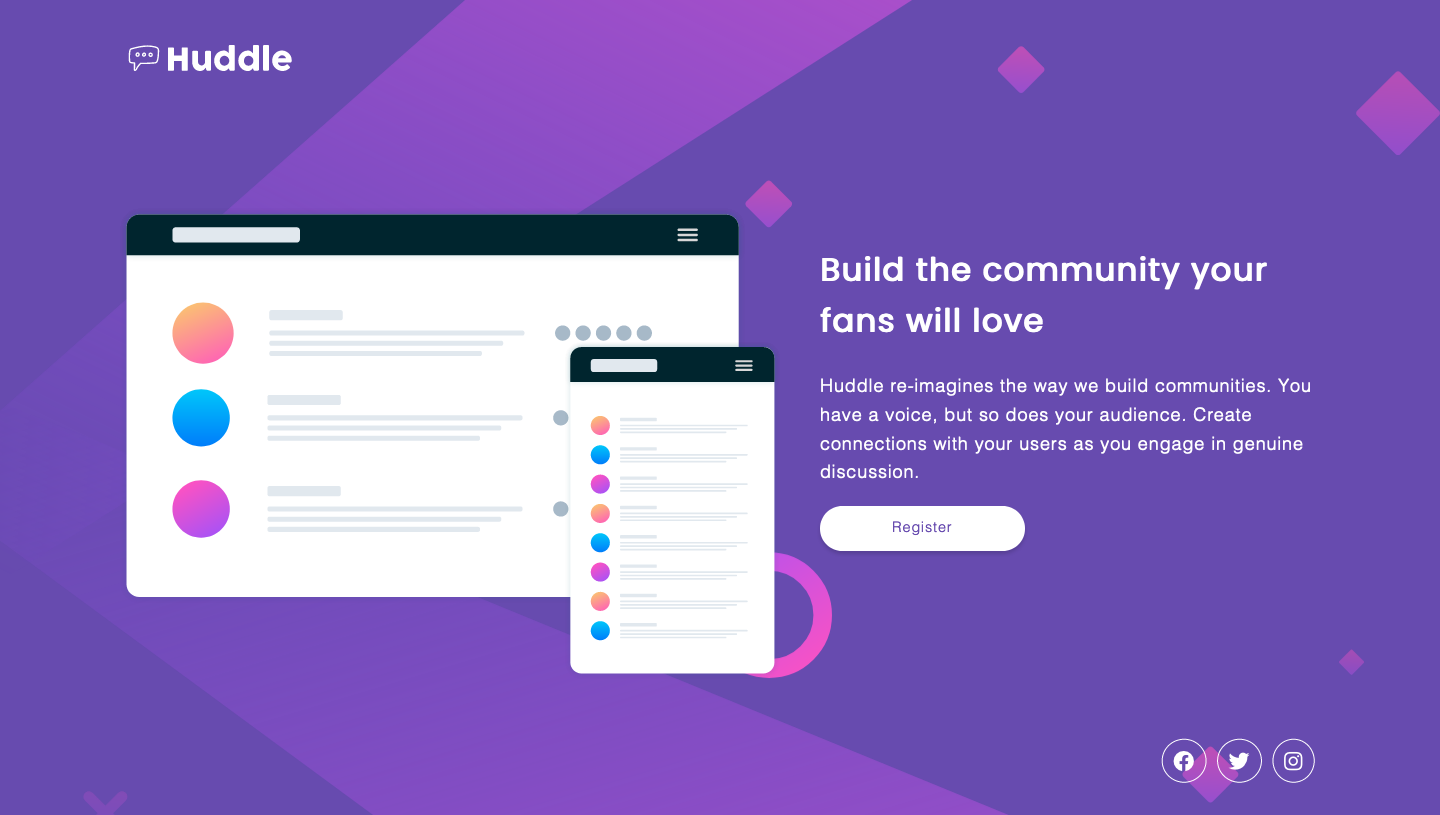
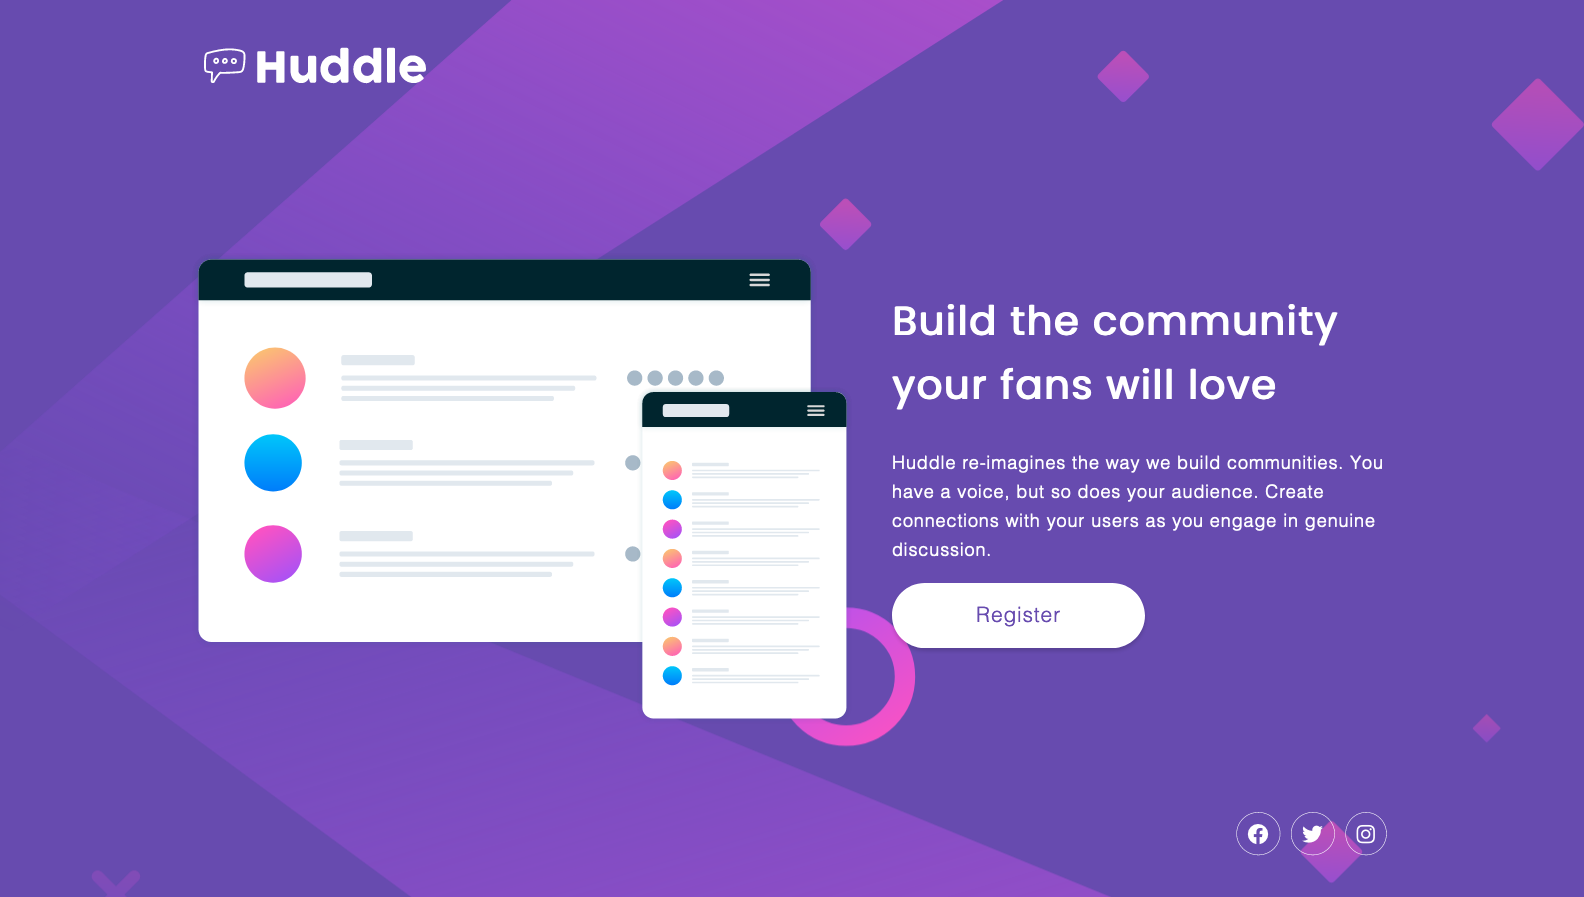
fixed errors

Changed region(s): [[0.0625, 0.2454, 0.9062, 0.8282], [0.0938, 0.0307, 0.2812, 0.092], [0.7812, 0.8896, 0.9062, 0.9509]]

diff --git a/style.css b/style.css
@@ -46,7 +46,7 @@ img {
   background: #fff;
   color: var(--violet);
   text-decoration: none;
-  padding: 0.75em 5em;
+  padding: 0.75em 4em;
   border-radius: 100px;
   font-size: 0.9rem;
   box-shadow: rgba(0, 0, 0, 0.15) 0px 3px 3px 0px;
@@ -129,7 +129,7 @@ h1 {
   }
 
   h1 {
-    font-size: 2rem;
+    font-size: 2.5rem;
   }
 
   .icons {
@@ -139,5 +139,13 @@ h1 {
 
   .fab {
     font-size: 1.313rem;
+  }
+
+  .btn {
+    font-size: 1.313rem;
+  }
+
+  .logo {
+    max-width: 15rem;
   }
 }
